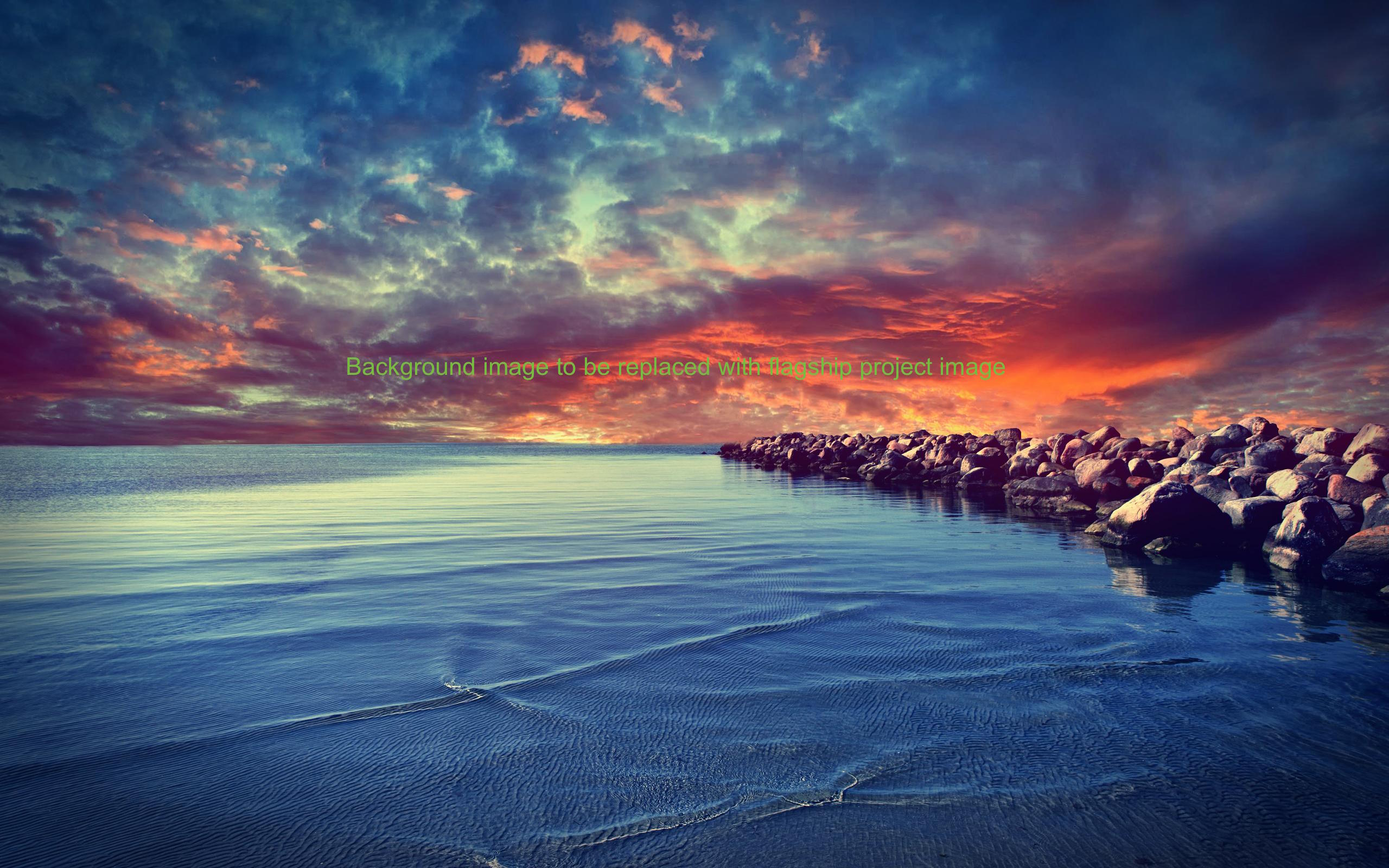
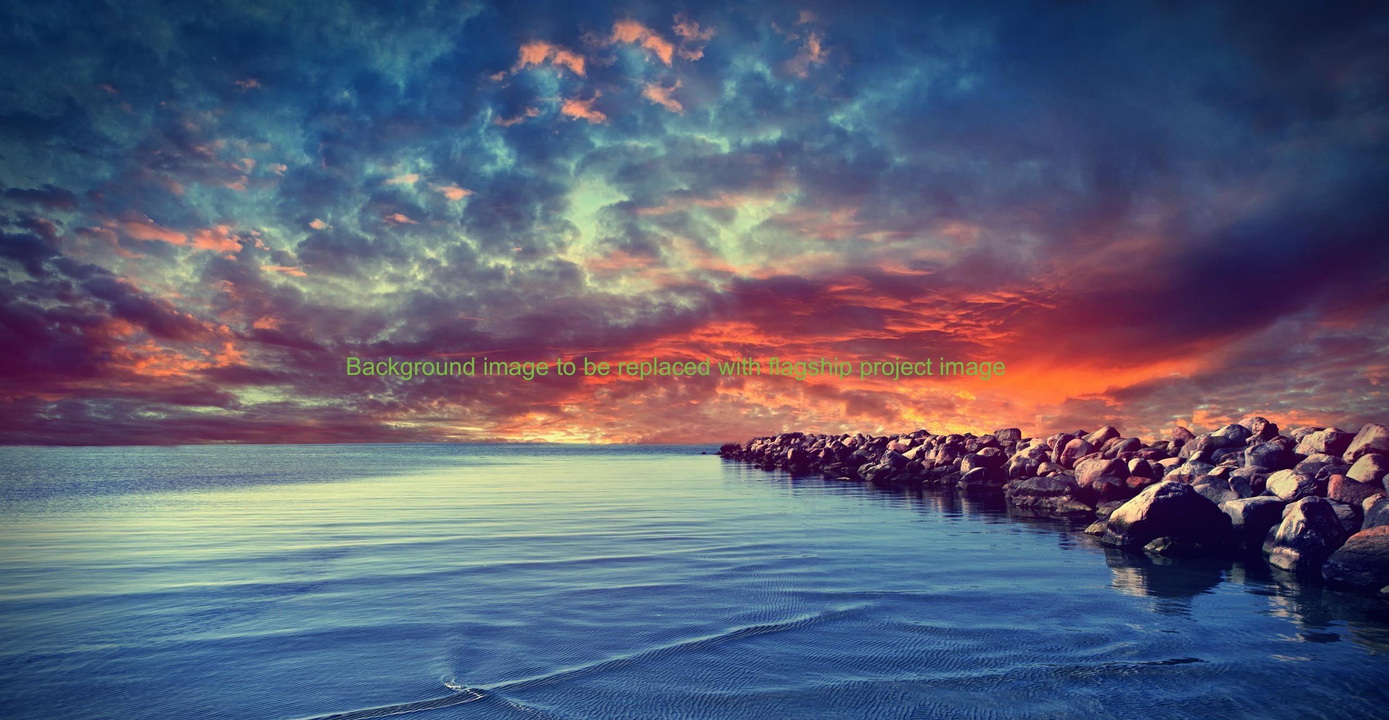
media query re-sizing

diff --git a/index.html b/index.html
@@ -54,7 +54,7 @@
      <div class="main_content">
 
       <section class="flagship_image_section">
-        <a href="hjds"> <img src="../my-projects-website/assets/images/flagship_image_2.jpeg" alt="Flagship Project" width="100%">
+        <a href="https://github.com/WollemiPines/assesment-1-chris-wallace"> <img src="../my-projects-website/assets/images/flagship_image_2.jpeg" alt="Flagship Project" width="100%">
         <div class="intro_text_title">
           <p>First Project</p>       
         </div>
@@ -68,7 +68,7 @@
       <section class="project_images" id="project_images">
          <div class="project_image_one">
             <div class="project_image_one_img">
-                 <a href="hjds"> <img src="../my-projects-website/assets/images/proj1.png" alt="Project 1 Image">
+                 <a href="https://github.com/WollemiPines/assesment-1-chris-wallace"> <img src="../my-projects-website/assets/images/proj1.png" alt="Project 1 Image">
                    <div class="card-titles">
                       <h1>Project One</h1>
                        <p class="more-text">It is a project</p>
@@ -79,7 +79,7 @@
 
          <div class="project_image_two">
             <div class="project_image_two_img">
-               <a href="hjds"> <img src="../my-projects-website/assets/images/proj2.png" alt="Project 2 Image"b>
+               <a href="https://github.com/WollemiPines/assesment-1-chris-wallace"> <img src="../my-projects-website/assets/images/proj2.png" alt="Project 2 Image"b>
                   <h1 class="card-titles">Project Two</h1>
                      <div class="more-text">
                         <p>It is also a project</p>
@@ -90,7 +90,7 @@
 
           <div class="project_image_three">
               <div class="project_image_three_img">
-                  <a href="hjds"> <img src="../my-projects-website/assets/images/proj3.png" alt="Project 3 Image">
+                  <a href="https://github.com/WollemiPines/assesment-1-chris-wallace"> <img src="../my-projects-website/assets/images/proj3.png" alt="Project 3 Image">
                     <h1 class="card-titles">Project Three</h1>
                        <div class="more-text">
                           <p>So is this one</p>
@@ -101,7 +101,7 @@
 
           <div class="project_image_four">
              <div class="project_image_three_img">
-                 <a href="hjds"> <img src="../my-projects-website/assets/images/proj4.png" alt="Project 4 Image">
+                 <a href="https://github.com/WollemiPines/assesment-1-chris-wallace"> <img src="../my-projects-website/assets/images/proj4.png" alt="Project 4 Image">
                      <h1 class="card-titles">Project Four</h1>
                         <div class="more-text">
                            <p>Can you beleive it? Another Project</p>
@@ -118,7 +118,7 @@
 
       <section class="content_resume" id="content_resume">
          <h4>Resume</h4>
-           <div class="h-link">
+           <div class="link">
              <a href="ghjas">Download Resume</a>
            </div>
       </section>
@@ -129,7 +129,7 @@
                  ChrisW1096@gmail.com 
              </p>
             <br>
-              <div class="h-link">
+              <div class="link">
                 <a href="mailto:chrisw1096@gmail.com">Send Email</a>
               </div>
 

diff --git a/assets/css/style.css b/assets/css/style.css
@@ -37,7 +37,6 @@ z-index: 3;
 .header-links {
     display: inline-flex;
     justify-items: space-around;
-    border: 2px var(--background) solid;
 }
 .dev {
     color: var(--contrast_text);
@@ -74,7 +73,7 @@ aside{
     padding:30px 0;
     margin:2%;
     max-width: 130px;
-    min-width: 70px;
+    min-width: 100px;
 }
 .aside_p{
     font-size: 70%;
@@ -99,31 +98,32 @@ main {
     flex-direction: column;
     width:100%;
     background-color: var(--background);
+    padding-top: 100px;
 }
 .flagship_image_section{
-    padding: 10% 2%;
+    padding: 0 3% 0 0.5%;
     background-color: rgb(255, 255, 255);
     background-attachment: fixed;
     position: fixed;
-    width:80%;
     z-index:1;
+    flex:1 2 50%;
 }
 .intro_text_title{
     color:rgb(249, 107, 19);
-    font-size: 300%;
-    margin:-260px 400px 0 30px;
+    font-size: 250%;
+    margin:-100px 0 0 30px;
 }
 .intro_text {
     color:rgb(249, 107, 19);
-    font-size: 150%;
-    margin:15px 400px 0 30px;
+    font-size: 120%;
+    margin:15px 0 0 30px;
 }
 /* Project images section is for images of the project */
 .project_images {
     display:flex;
 flex-flow: row wrap;
     justify-content: space-around;
-    width:100%;
+    width:102%;
     flex:1 1 50%;
     margin-top: 600px;
     padding:10px 0 0;
@@ -163,7 +163,20 @@ h4{
     transform: skew(-25deg);
     text-decoration: none;
 }
+.link a:hover{
+    padding:5px;
+    background-color: var(--button_color);
+    border-radius: 15px 6px 15px;
+    transform: skew(-25deg);
+    text-decoration: none;
+}
 .h-link a:link{
+    padding:5px;
+    font-size: 110%;
+    color: var(--header_text);
+    text-decoration: none;
+}
+.link a:link{
     padding:5px;
     font-size: 110%;
     color: var(--header_text);
@@ -188,4 +201,36 @@ footer{
     text-align: center;
     border-top:3px var(--button_color) solid;
     padding: 15px;
+}
+/* Resizing page */
+@media screen and (max-width: 980px) {
+    .project_images{
+        margin-top: 405px;
+    }
+}
+@media screen and (max-width: 520px) {
+    .project_images img[src$=".png"]{
+        width:200px;
+    }
+    .project_images{
+        margin-top: 200px;
+    }
+    .header_container{
+        font-size: 60%;
+    }
+    .flagship_image_section{
+        margin-top: 0;
+        font-size: 50%;
+    }
+    aside{
+        font-size: 60%;
+        width:100px;
+        margin-top:-100px;
+    }
+    .intro_text_title {
+        margin:-60px 0 0 10px;
+    }
+    .intro_text {
+        margin:15px 0 0 10px;
+    }
 }
